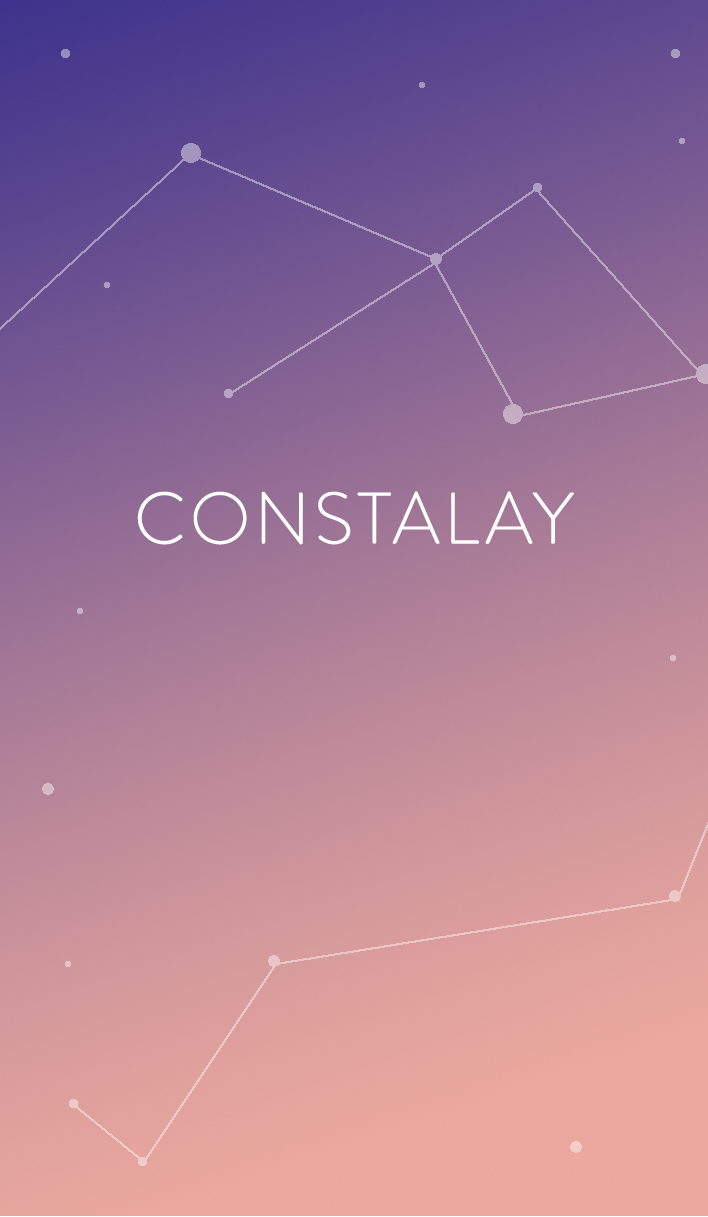
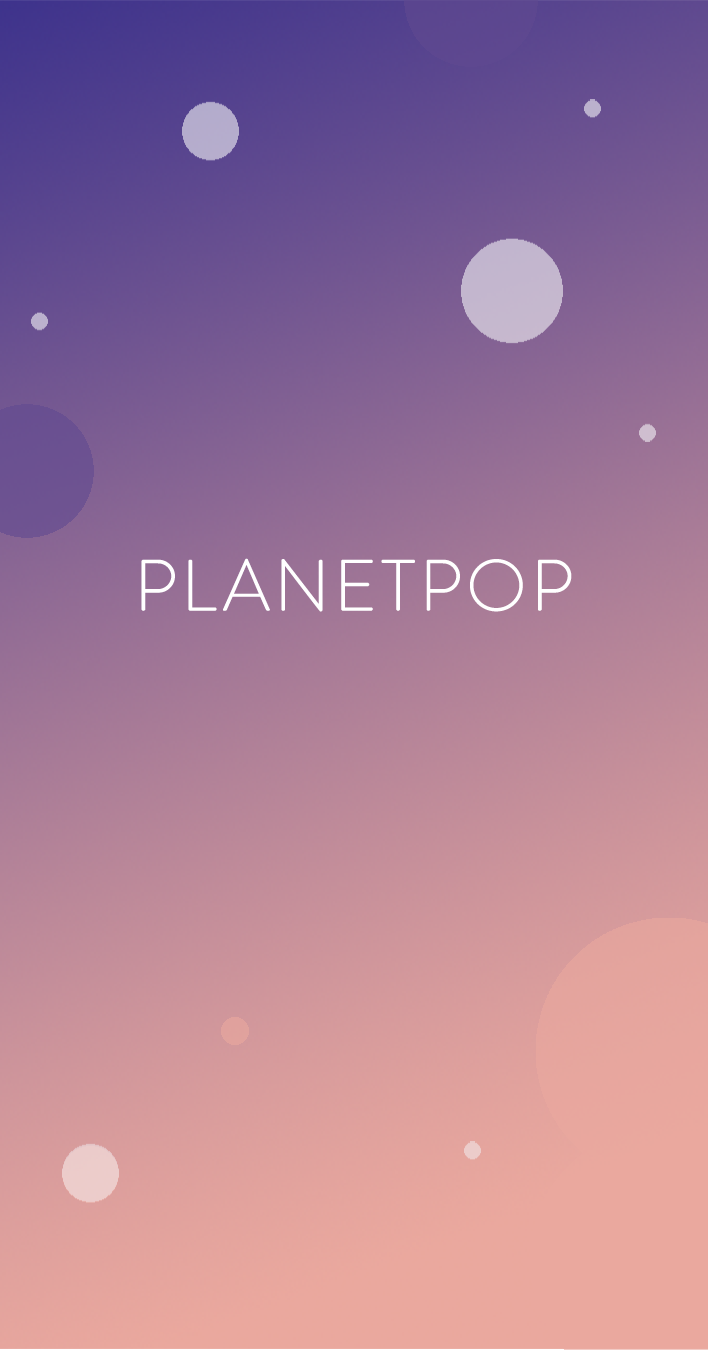
added some design changes

diff --git a/components/screen/ChoosePhoto.js b/components/screen/ChoosePhoto.js
@@ -1,25 +1,64 @@
-import React, { Component } from 'react';
-import { Button, View, Text } from 'react-native';
-import { StackNavigator } from 'react-navigation';
+import React, { Component } from "react";
+import {
+  Button,
+  View,
+  Text,
+  StyleSheet,
+  TouchableOpacity
+} from "react-native";
+import { StackNavigator } from "react-navigation";
+import EmptyBG from "./EmptyBG";
 
 export default class ChoosePhoto extends React.Component {
-
   render() {
     return (
-      <View>
+      <View style={styles.container}>
+        <EmptyBG source={require("../assets/background.png")} />
 
-        <Button
-          title='Camera to take photo'
-          onPress={() => this.props.navigation.navigate('TakePhoto')}
-        />
+        <TouchableOpacity
+          style={styles.button1}
+          onPress={() => this.props.navigation.navigate("TakePhoto")}
+        >
+          <Text style={styles.text}>   Take a photo   </Text>
+        </TouchableOpacity>
 
-        <Button
-          title='Making a constallation of your photo'
-          onPress={() => this.props.navigation.navigate('PhotoFromLibrary')}
-        />
-
+        <TouchableOpacity
+          style={styles.button2}
+          onPress={() => this.props.navigation.navigate("PhotoFromLibrary")}
+        >
+          <Text style={styles.text}> Choose a photo </Text>
+        </TouchableOpacity>
       </View>
-    )
+    );
   }
 }
 
+const styles = StyleSheet.create({
+  container: {
+    flex: 1,
+    justifyContent: "center",
+    alignItems: "center"
+  },
+  button1: {
+    alignItems: "center",
+    backgroundColor: "#FFFFFF",
+    opacity: 0.5,
+    padding: 10,
+    top: 300,
+    position: "absolute"
+  },
+  button2: {
+    alignItems: "center",
+    backgroundColor: "#FFFFFF",
+    opacity: 0.5,
+    padding: 10,
+    top: 400,
+    position: "absolute"
+  },
+
+  text: {
+    color: "#3f348c",
+    fontFamily: "Arial",
+    fontSize: 20
+  }
+});

diff --git a/components/screen/Home.js b/components/screen/Home.js
@@ -11,12 +11,13 @@ export default class Home extends React.Component {
       <View style={styles.container}>
 
         <BackgroundImg source={require('../assets/home.png')} />
+        <Text style={styles.tagLine}> Use the colors of your photos to make AR planets </Text>
 
         <TouchableOpacity
         style={styles.button}
         onPress={() => this.props.navigation.navigate('ChoosePhoto')}
       >
-        <Text style={styles.text}> Make Your Constellation </Text>
+        <Text style={styles.text}> Make Planets </Text>
       </TouchableOpacity>
 
 
@@ -36,9 +37,18 @@ const styles = StyleSheet.create({
     backgroundColor: '#FFFFFF',
     opacity: 0.5,
     padding: 10,
-    top: 380,
+    top: 400,
     position: 'absolute'
   },
+  tagLine: {
+    alignItems: 'center',
+    color: '#FFFFFF',
+    opacity: 0.9,
+    padding: 10,
+    top: 350,
+    position: 'absolute'
+  },
+
   text: {
     color: '#3f348c',
     fontFamily: 'Arial'

diff --git a/components/screen/EmptyBG.js b/components/screen/EmptyBG.js
@@ -1,0 +1,31 @@
+import React from 'react'
+import { View, Image, StyleSheet } from 'react-native'
+
+const EmptyBG = (props) => {
+
+  return (
+    <View style={styles.container}>
+    <Image source={props.source} style={styles.bg} />
+    </View>
+  )
+}
+
+
+const styles = StyleSheet.create({
+  container: {
+    flex: 1,
+    alignSelf: 'stretch',
+  },
+  bg: {
+    flex: 1,
+    width: null,
+    height: null,
+    resizeMode: 'cover',
+    justifyContent: 'flex-end',
+    alignItems: 'center',
+    alignSelf: 'stretch',
+    paddingBottom: 50,
+  },
+})
+
+export default EmptyBG;
